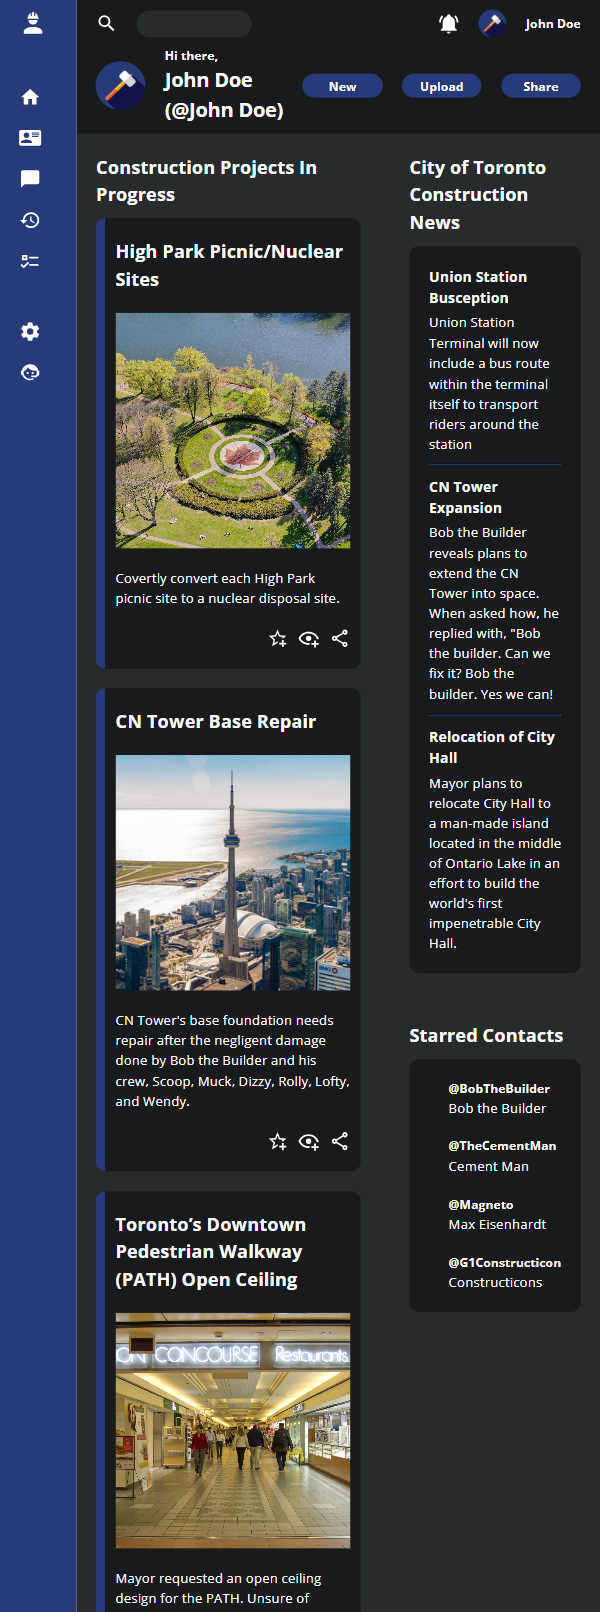
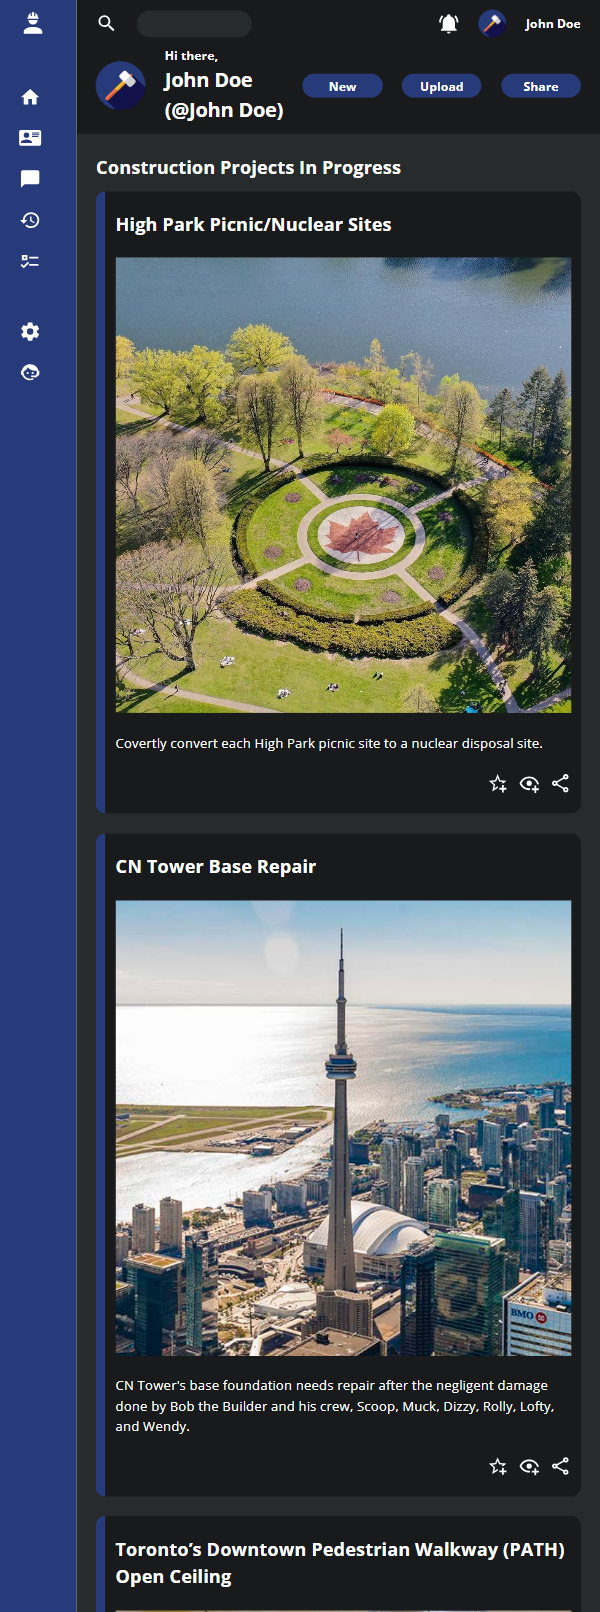
update readme and improve responsive view

diff --git a/style.css b/style.css
@@ -21,7 +21,7 @@
 body {
   font-family: var(--system-ui);
   line-height: 1.5;
-  grid-template: auto 5fr 50px / 0.5fr 6fr;
+  grid-template: auto 5fr 40px / 0.5fr 6fr;
   font-weight: bold;
   color: var(--default-text-color);
 }
@@ -249,12 +249,15 @@ footer,
 .footer {
   font-size: 1rem;
   text-shadow: var(--text-shadow);
-  justify-content: center;
-  align-content: center;
+  align-items: start;
   color: var(--default-text-color);
   text-decoration: none;
-  width: calc(100% - ((100% * var(--general-transform-scale)) - 100%));
+  width: auto;
   height: 100%;
+}
+
+.contacts-aside {
+  justify-self: center;
 }
 
 .contacts {
@@ -280,9 +283,14 @@ button:hover {
   transform: scale(1.10);
 }
 
-@media only screen and (max-width: 755px) {
+@media only screen and (max-width: 860px) {
   .nav-container > menu span,
   .nav-container > header h1 {
     display: none;
+  }
+
+  .main-container {
+    grid-template-columns: none;
+    gap: var(--large-sizing);
   }
 }

diff --git a/index.html b/index.html
@@ -334,7 +334,7 @@
           </div>
         </article>
       </aside>
-      <aside class="half-gap">
+      <aside class="half-gap contacts-aside">
         <h2>Starred Contacts</h2>
         <div class="gap aside-card contacts">
           <img class="contact-img fit-ratio-img" src="img/bob-the-builder.jpg" alt="Bob the Builder">

diff --git a/README.md b/README.md
@@ -8,7 +8,7 @@ This is a sample admin dashboard for construction project managers.
 
 ### Mobile View:
 
-![Admin Dashboard Mobile](docs/admin-dashboard-mobile.png)
+![Admin Dashboard Mobile](docs/admin-dashboard-mobile.png)![Admin Dashboard Mobile](docs/admin-dashboard-mobile2.png)
 
 ## Links
 - [Click here to see the admin dashboard live.](https://mohamedabdulle.github.io/admin-dashboard/)
